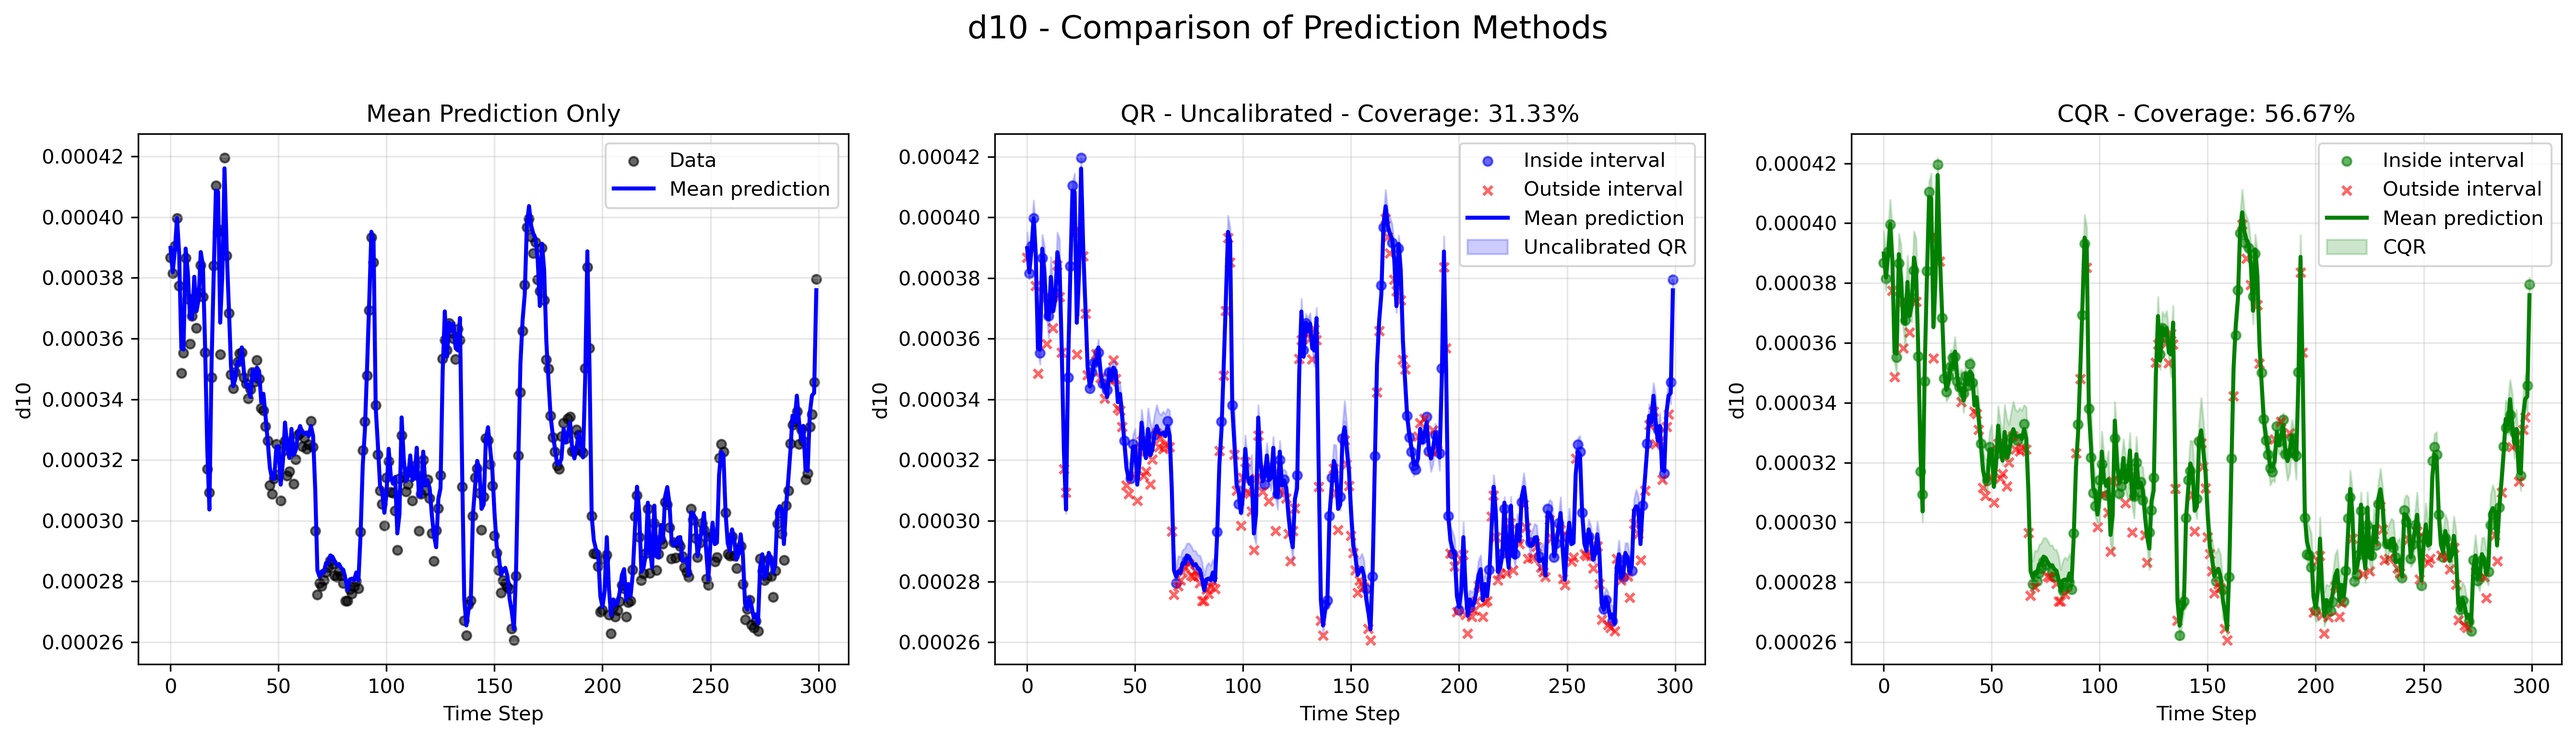
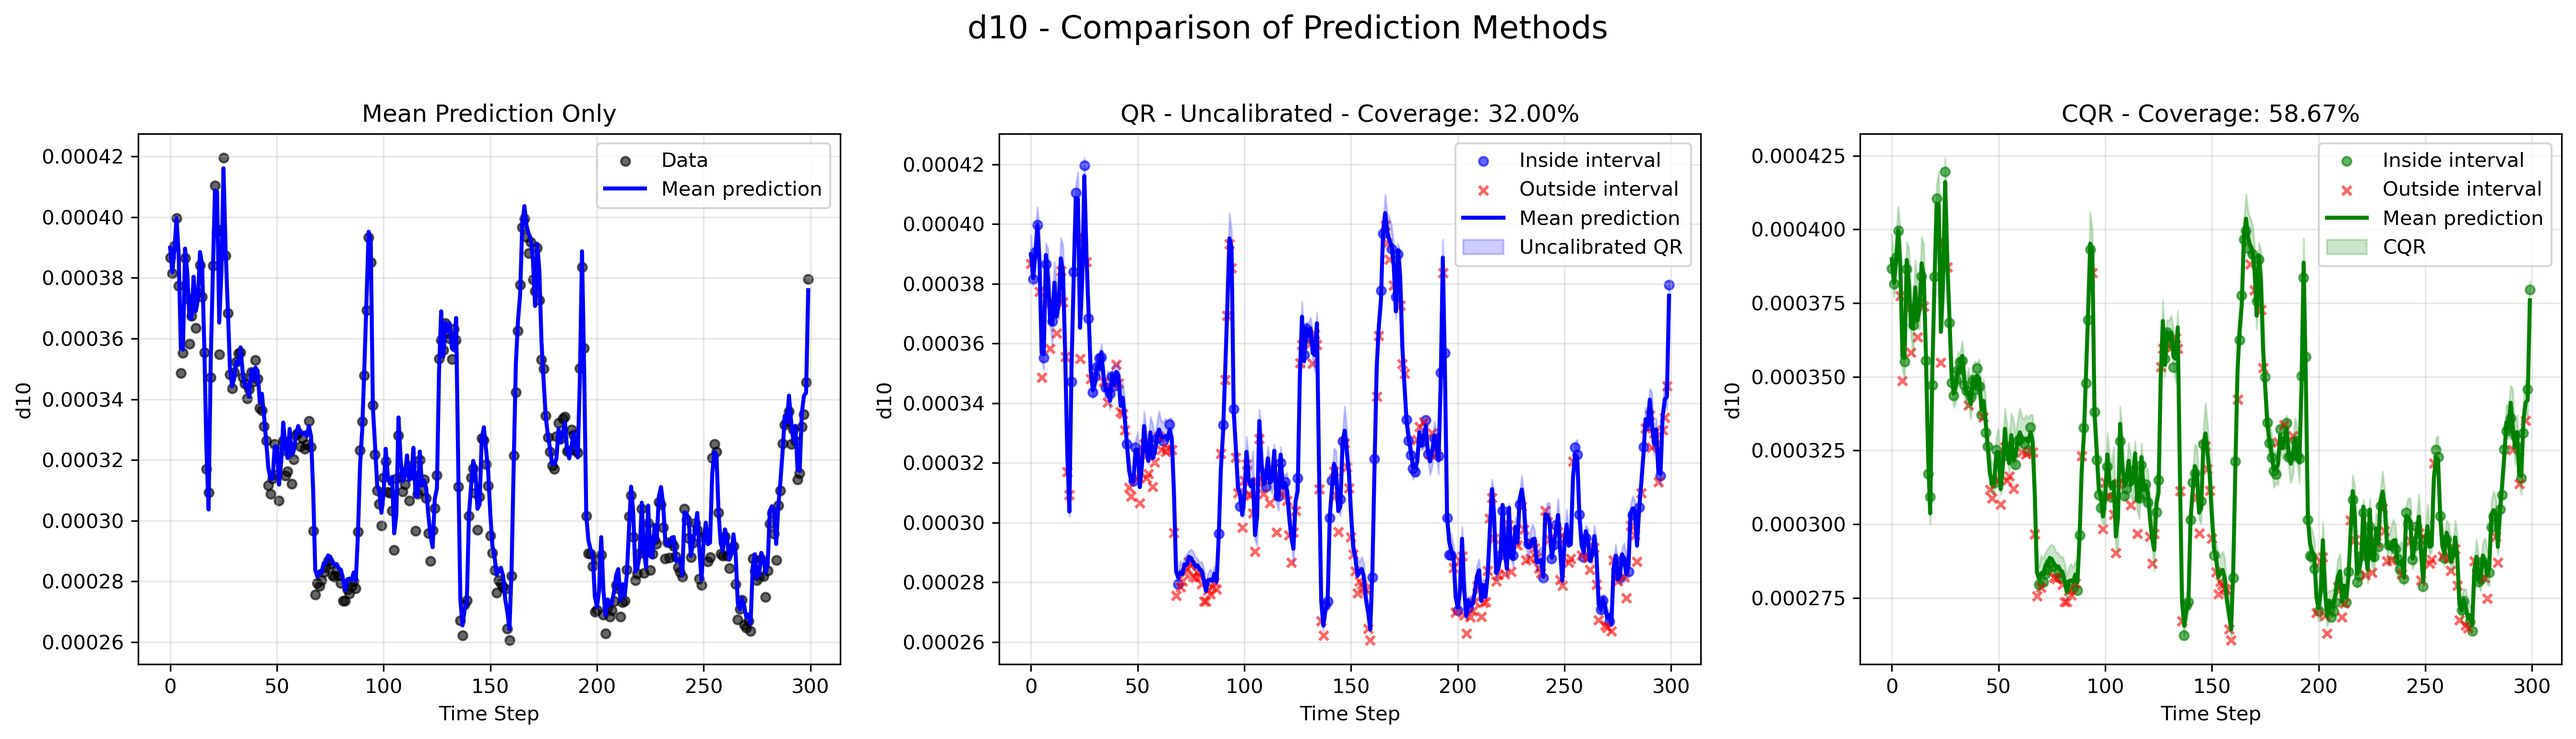
Use 2 clusters

diff --git a/tools/cqr/cqr_simple.py b/tools/cqr/cqr_simple.py
@@ -407,7 +407,7 @@ def run_cqr_pipeline(model_path, data_path, results_dir, window_size):
 def main():
     cluster_configs = [
         ("results/ann/model_cluster0_run1751974461.pt", "Data/clustered/cluster0"),
-        # ("results/ann/model_cluster1_run1751974462.pt", "Data/clustered/cluster1"),
+        ("results/ann/model_cluster1_run1752146723.pt", "Data/clustered/cluster1"),
     ]
     results_dir = "results/ann"
     window_size = 10
